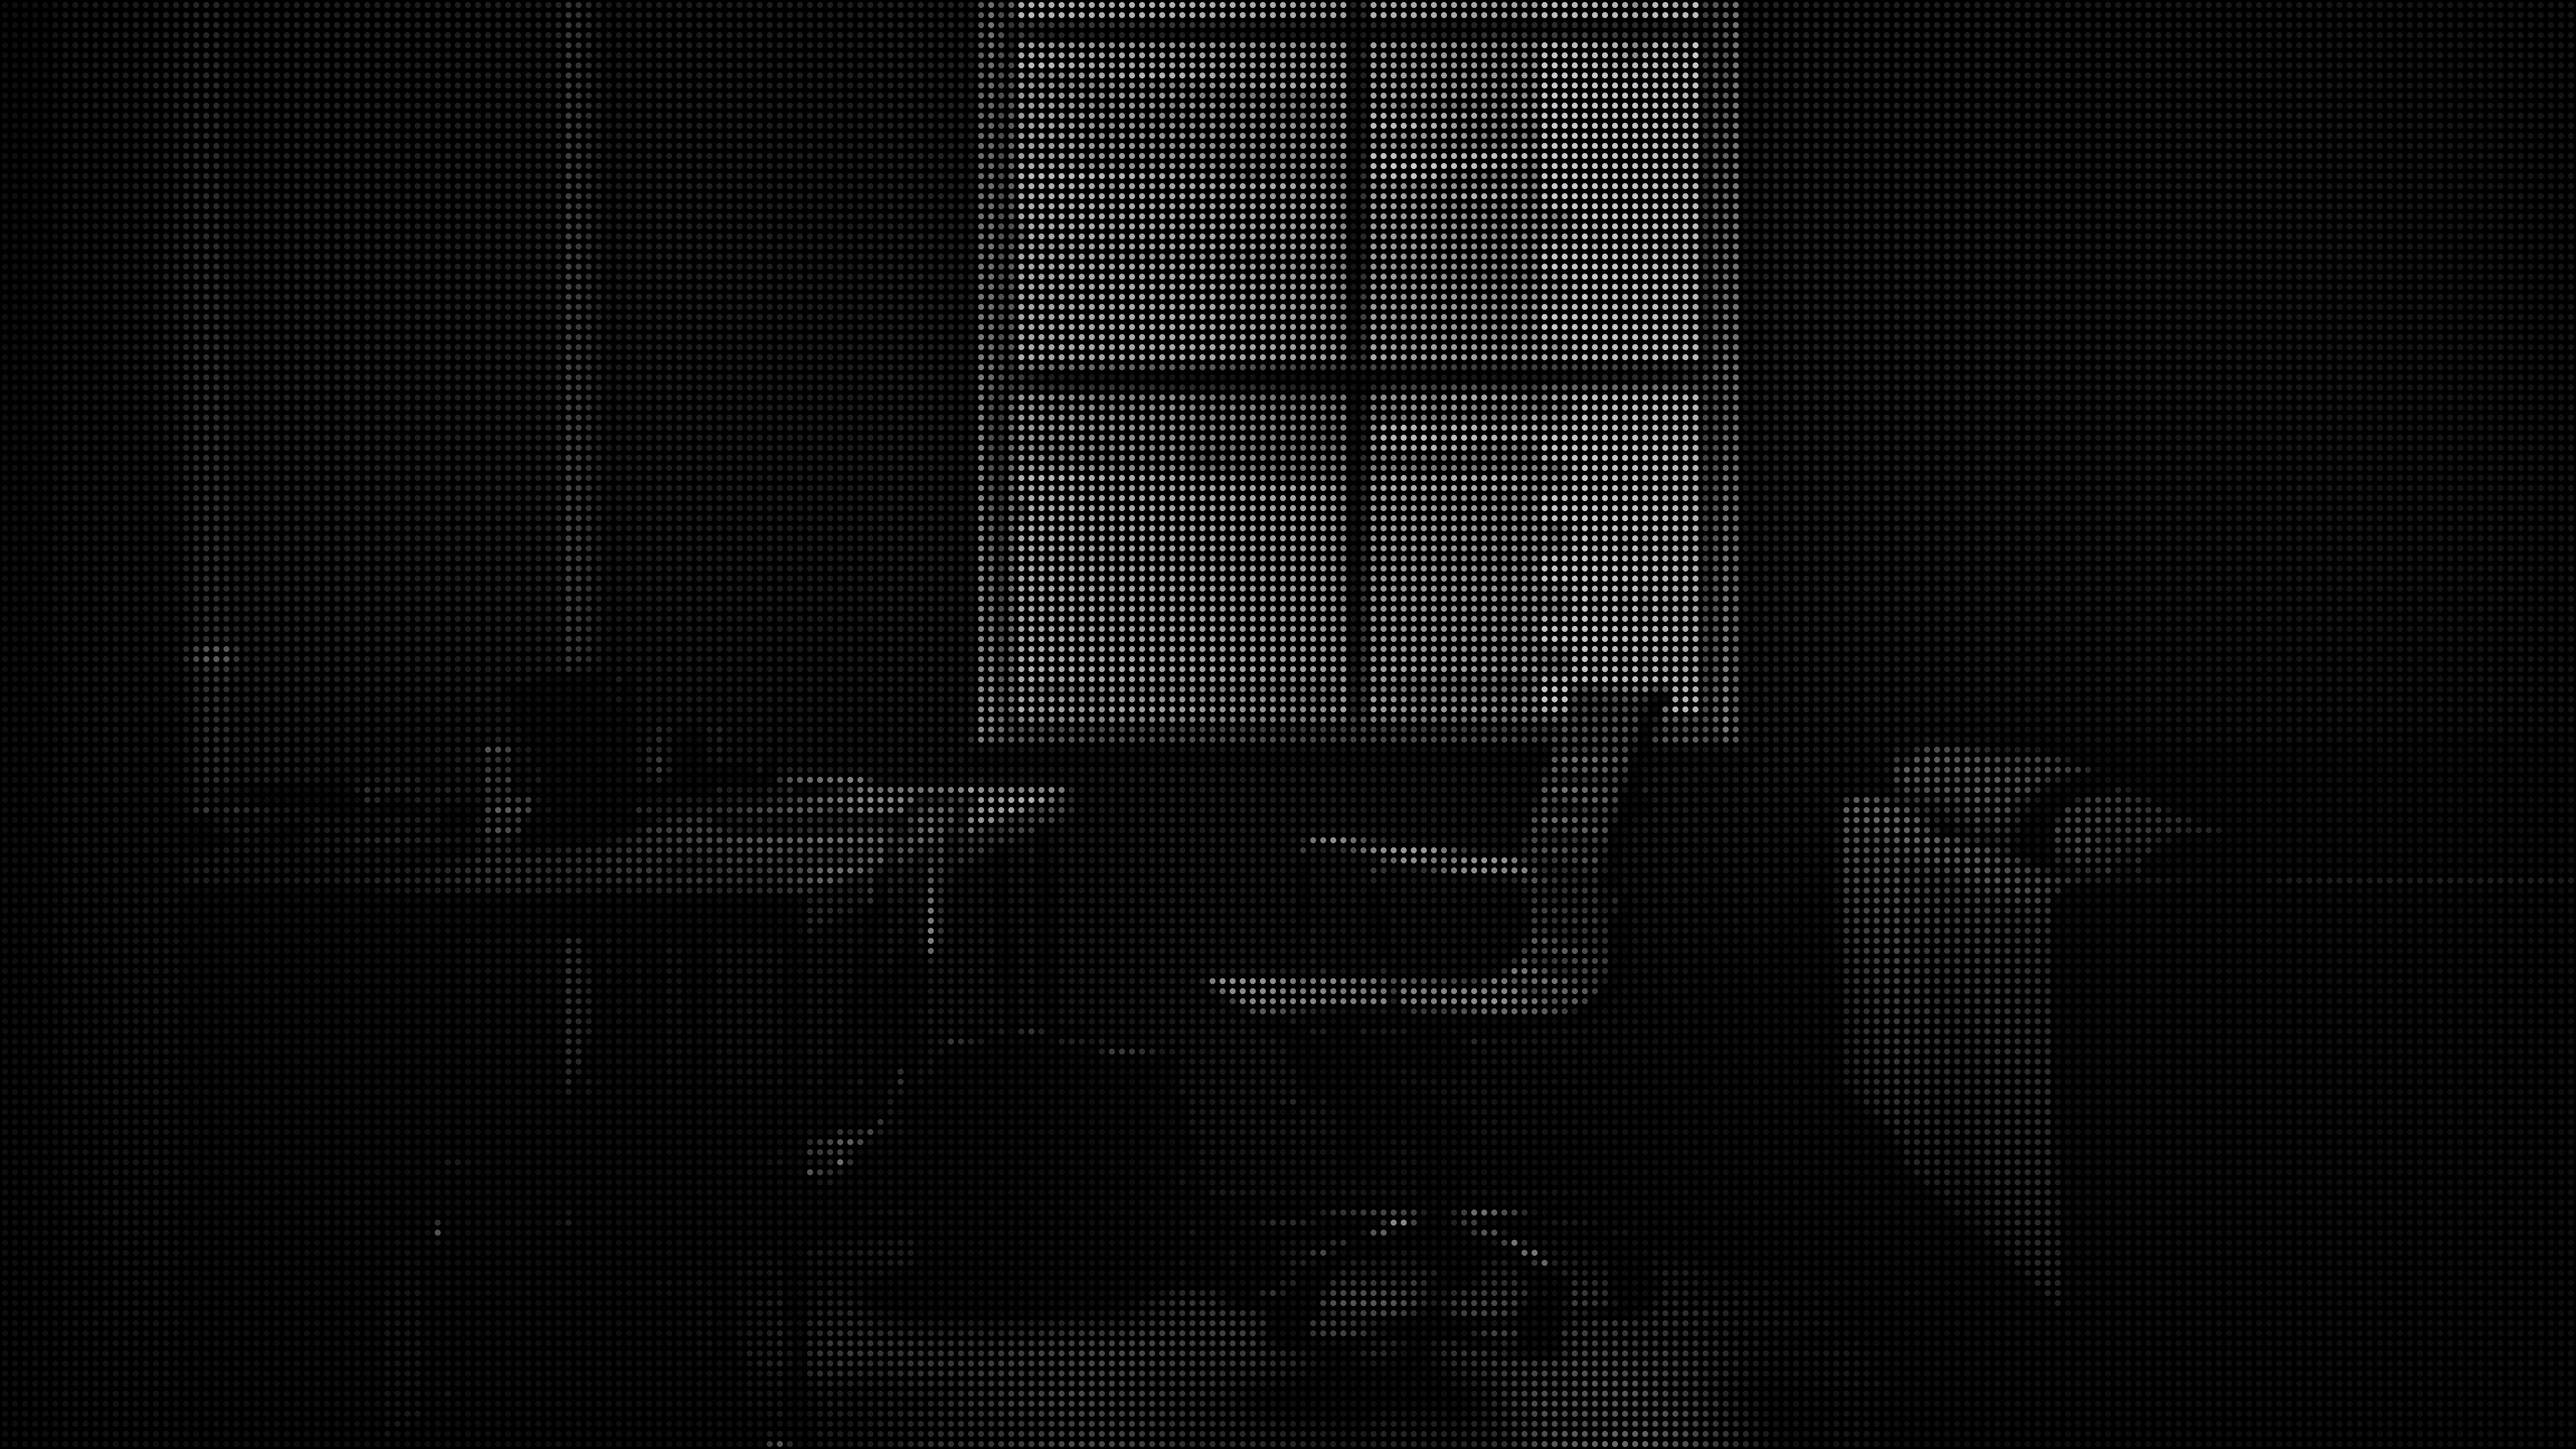
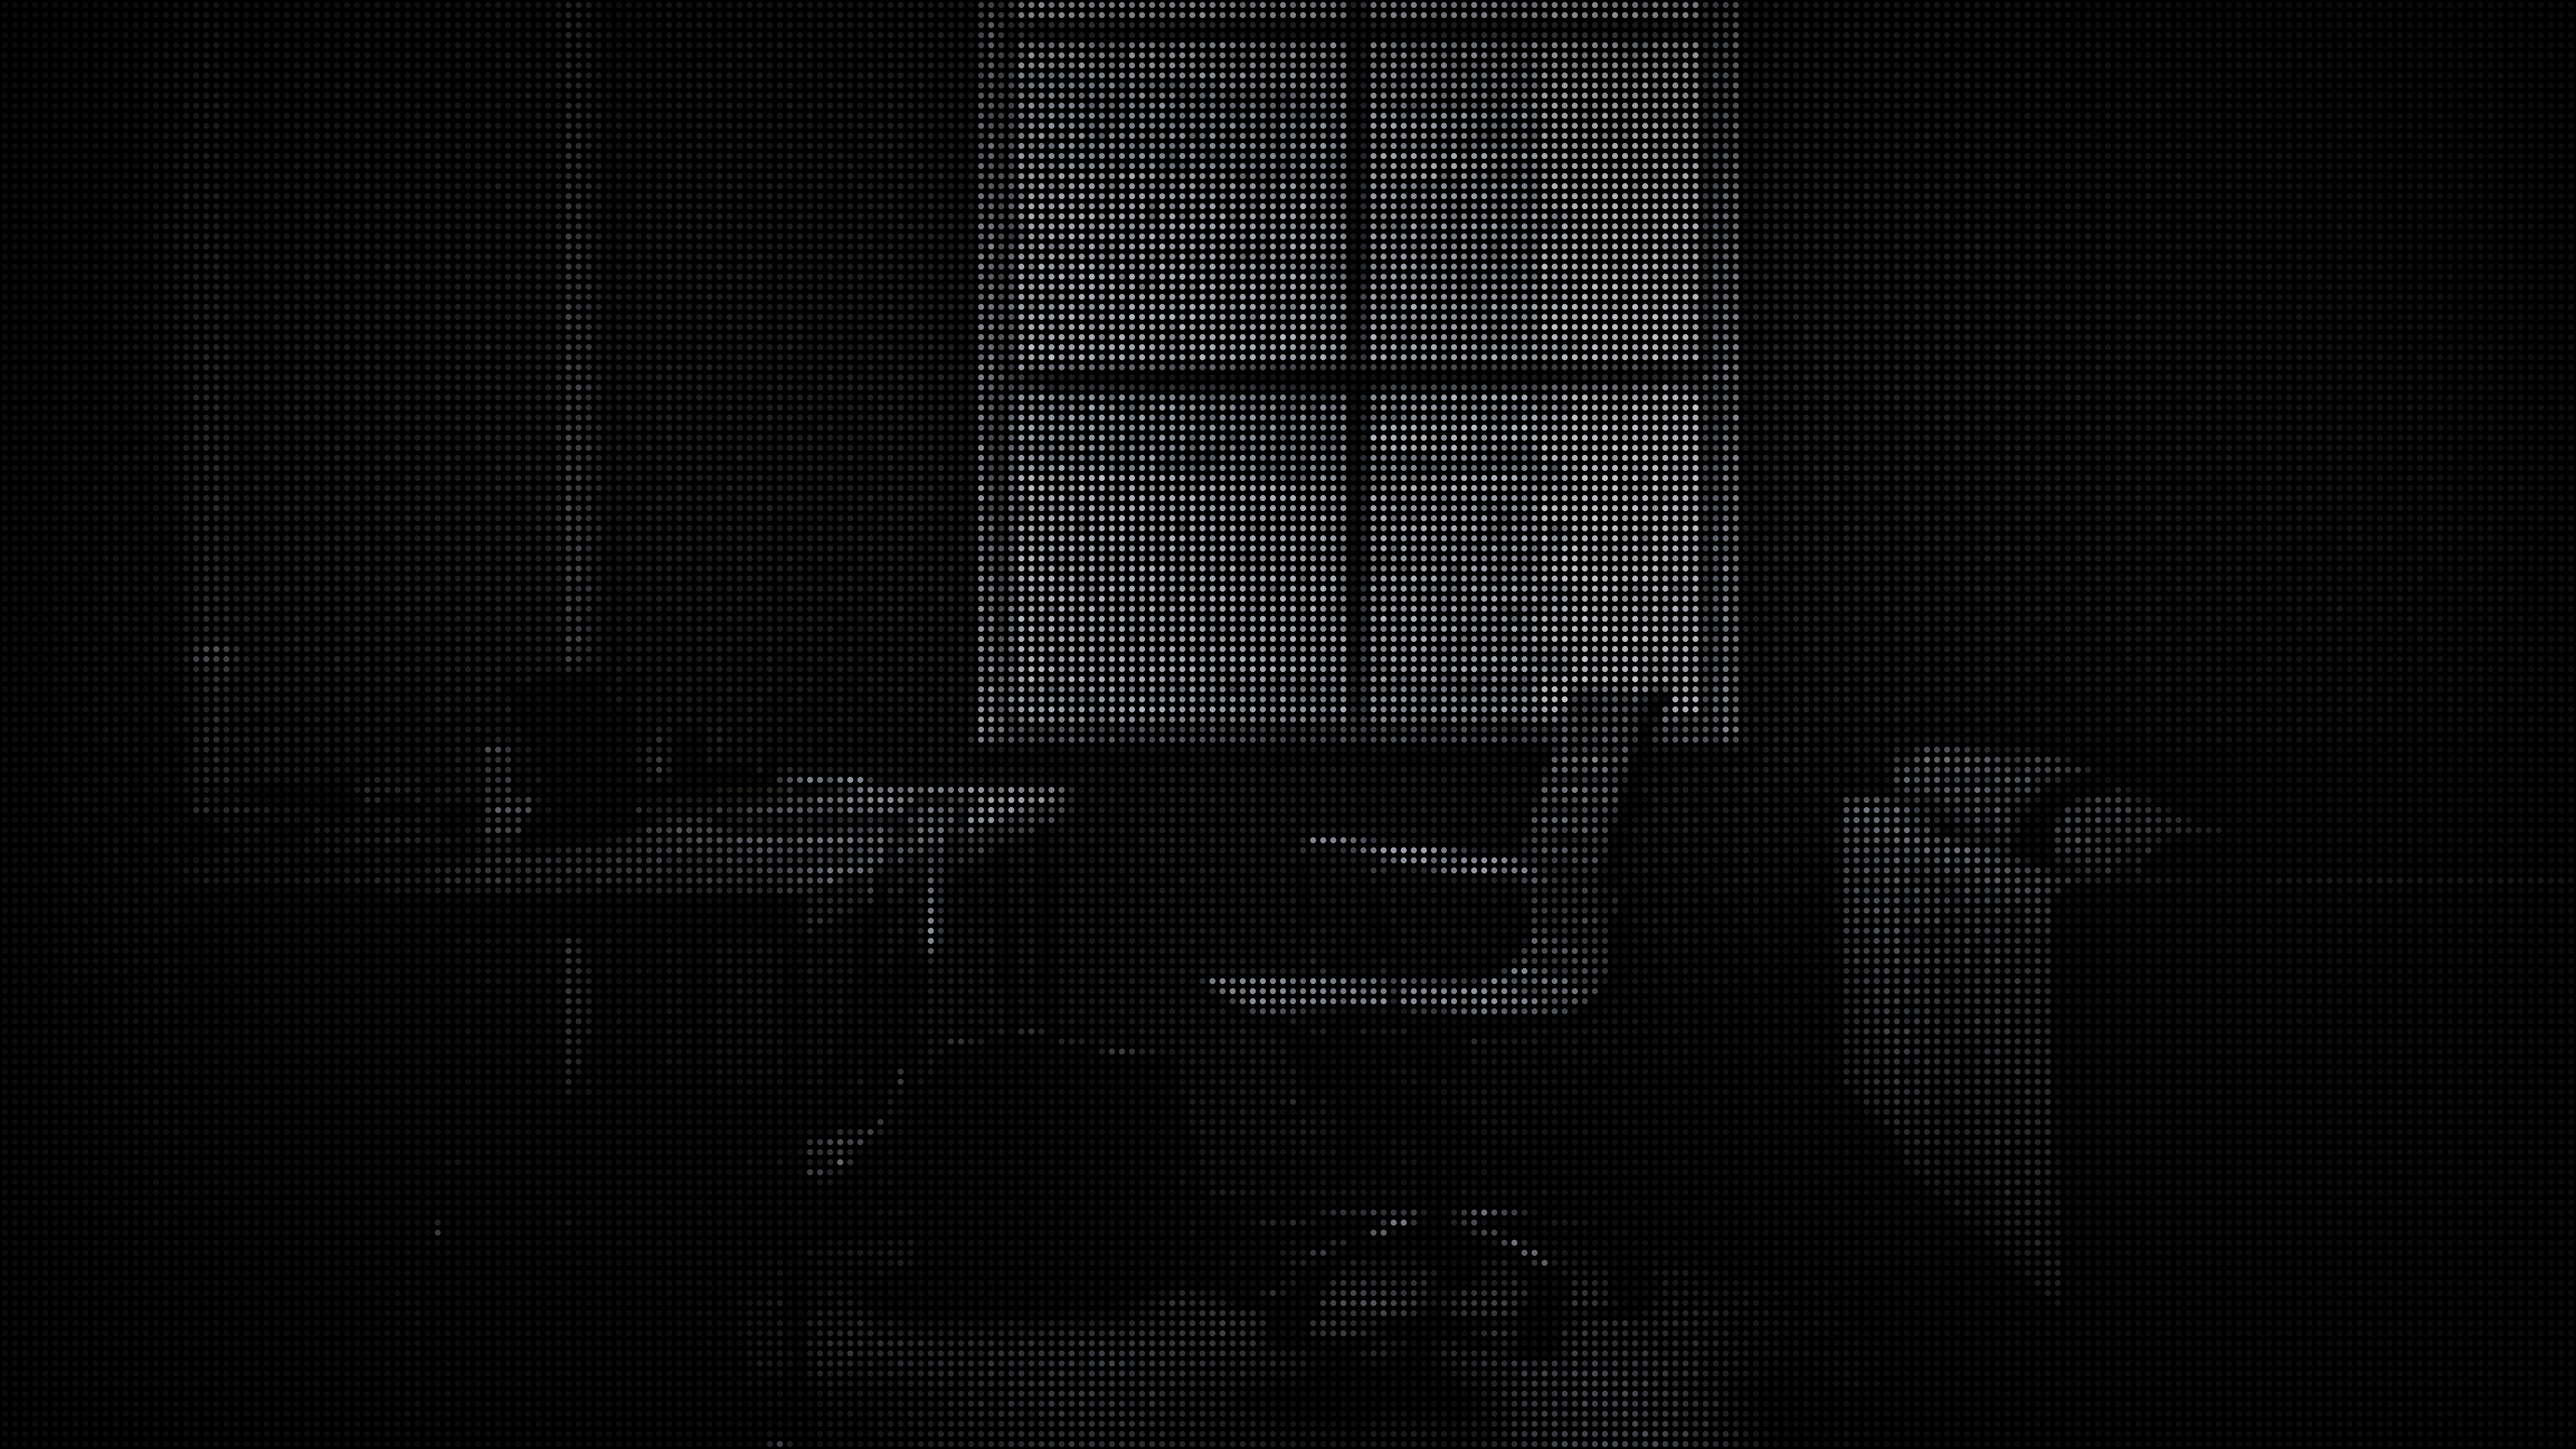
feat(dots): vignetted, capped, muted-colour wallpaper bakes

Changed region(s): [[0.375, 0.0, 0.6562, 0.2171], [0.5938, 0.9616, 0.6562, 1.0]]

diff --git a/dot_config/quickshell/executable_dots.py b/dot_config/quickshell/executable_dots.py
@@ -1,8 +1,12 @@
 #!/usr/bin/env python3
 """Bakes wallpapers into a dot matrix: the image is cut into 15 px cells and
 each cell becomes one round dot, its brightness the cell's grey, from true
-black up to Theme.qml's `text`. True black, not the shell's `ground`, because
-the desk's tiles sit on `panel` just above it and must lift off the screen.
+black up to CAP of Theme.qml's `text`, so the wallpaper never outshines the
+text over it. Each dot keeps SAT of the cell's own colour, so a grey photo
+bakes grey; the cap holds for the grey, while a saturated dot's strongest
+channel can sit a little above it (cyan reaches 209 where white stops at 199). The dots dim towards the corners and carry a little grain. True
+black, not the shell's `ground`, because the desk's tiles sit on `panel` just
+above it and must lift off the screen.
 
     ~/.local/share/chezmoi/dot_config/quickshell/executable_dots.py [--out DIR] IMAGE...
 
@@ -28,8 +32,21 @@ from PIL import Image, ImageOps
 W, H, CELL = 3840, 2160, 15
 RADIUS = 0.3 * CELL  # glyph's dot: 0.3 of the pitch
 # The darkest dot, as a share of the way from black to text. Keeps black areas
-# a faint, even grid instead of a hole; anything brighter is left alone.
+# a faint grid instead of a hole (dimmed towards the corners with the rest);
+# anything brighter is left alone.
 FLOOR = 0.06
+# Each value below was picked by eye from rendered previews; dots.test.py pins
+# them with literals, so a change here wants the same change there.
+# The corners fall to VIGNETTE of the centre, starting INNER of the way out
+# along the half-diagonal; the floor falls half as far, so the grid never goes.
+VIGNETTE, INNER = 0.5, 0.35
+# Brightness above KNEE eases into CAP at white, so the brightest dot sits
+# below the text read over it.
+KNEE, CAP = 0.55, 0.85
+SAT = 0.35  # how much of the photo's own colour a dot keeps
+# Each dot's brightness varies by this much (one sigma), from a fixed seed so a
+# rebake comes out the same.
+GRAIN = 0.10
 
 
 def tone(x, c=2.0, p=0.45):
@@ -38,15 +55,42 @@ def tone(x, c=2.0, p=0.45):
     return x**c * (1 + p**c) / (x**c + p**c)
 
 
+def ease(x):
+    """x below KNEE; above it a curve with slope 1 at KNEE that reaches CAP at 1."""
+    a = (1 - KNEE) / (CAP - KNEE)
+    u = (x - KNEE) / (1 - KNEE)
+    return np.where(x > KNEE, KNEE + (CAP - KNEE) * a * u / (1 + (a - 1) * u), x)
+
+
+def vignette(k):
+    """Per cell: 1 inside INNER, smoothstepping down to 1 - k at the corners."""
+    ys, xs = np.mgrid[0 : H // CELL, 0 : W // CELL] + 0.5
+    r = np.hypot(xs / (W / CELL / 2) - 1, ys / (H / CELL / 2) - 1) / np.sqrt(2)
+    t = np.clip((r - INNER) / (1 - INNER), 0, 1)
+    return 1 - k * t * t * (3 - 2 * t)
+
+
 def dots(im, hi):
-    grey = np.asarray(ImageOps.fit(im.convert("L"), (W, H), Image.LANCZOS), float) / 255
-    lum = np.maximum(tone(grey.reshape(H // CELL, CELL, W // CELL, CELL).mean(axis=(1, 3))), FLOOR)
+    rgb = np.asarray(ImageOps.fit(im.convert("RGB"), (W, H), Image.LANCZOS), float) / 255
+    cell = rgb.reshape(H // CELL, CELL, W // CELL, CELL, 3).mean(axis=(1, 3))
+    grey = cell @ np.array([0.299, 0.587, 0.114])
+    noise = np.random.default_rng(7).normal(0, 1, grey.shape)
+    lum = ease(np.clip(tone(grey) * (1 + GRAIN * noise), 0, 1)) * vignette(VIGNETTE)
+    # The cell's hue as a per-channel ratio to its grey, moved SAT of the way
+    # from 1. Black cells get 1: their lit value is 0 anyway, and 0/0's NaN
+    # would win the max below and erase the floor dot.
+    hue = np.divide(cell, grey[..., None], out=np.ones_like(cell), where=grey[..., None] > 0)
+    lit = hi * (1 + SAT * (hue - 1)) * lum[..., None]
+    # The floor stays text's grey, so near-black noise never shows as colour.
+    v = np.maximum(lit, hi * FLOOR * vignette(VIGNETTE / 2)[..., None])
     # One cell's dot coverage, antialiased by distance from the dot's edge;
     # the centre pixel sits exactly on the cell's centre (CELL is odd).
     off = np.arange(CELL) + 0.5 - CELL / 2
     cover = np.clip(RADIUS + 0.5 - np.hypot(off[:, None], off[None, :]), 0, 1)
-    t = np.repeat(np.repeat(lum, CELL, 0), CELL, 1) * np.tile(cover, (H // CELL, W // CELL))
-    return Image.fromarray(np.round(hi * t[..., None]).astype(np.uint8), "RGB")
+    t = np.repeat(np.repeat(v, CELL, 0), CELL, 1) * np.tile(cover, (H // CELL, W // CELL))[..., None]
+    # Strong grain on a bright saturated cell can pass 255, and uint8 would wrap
+    # it to near black.
+    return Image.fromarray(np.round(np.clip(t, 0, 255)).astype(np.uint8), "RGB")
 
 
 def text_grey():

diff --git a/dot_config/quickshell/dots.test.py b/dot_config/quickshell/dots.test.py
@@ -14,24 +14,62 @@ spec = importlib.util.spec_from_file_location("dots", pathlib.Path(__file__).wit
 dots = importlib.util.module_from_spec(spec)
 spec.loader.exec_module(dots)
 
-BLACK = np.array([0, 0, 0])
-# Black, grey byte 115 and white, a third of the width each.
-src = np.zeros((2160, 3840), np.uint8)
-src[:, 1280:2560] = 115
-src[:, 2560:] = 255
-out = np.asarray(dots.dots(Image.fromarray(src, "L"), np.array([0xE6, 0xE7, 0xEA])))
+HI = np.array([0xE6, 0xE7, 0xEA])  # Theme.qml's dark text
 
-assert out.shape == (2160, 3840, 3), out.shape
-c = 7 + 15 * 10  # a cell centre, ten cells in from the top
-black, grey, white = (out[c, 7 + 15 * k] for k in (20, 120, 220))
 
-# Dark areas keep a faint grid: 6% of the way from black to text.
-assert black.tolist() == [14, 14, 14], black
-# Grey goes through grain.py's S-curve: #E6E7EA × S(115/255).
-assert grey.tolist() == [139, 139, 141], grey
-assert white.tolist() == [0xE6, 0xE7, 0xEA], white
+def bake(rgb):
+    """A flat field of one colour, baked."""
+    return np.asarray(dots.dots(Image.new("RGB", (16, 9), rgb), HI))
+
+
+def dot(out, row, col):
+    """The centre pixel of cell (row, col), where the dot is fully lit."""
+    return out[7 + 15 * row, 7 + 15 * col].tolist()
+
+
+# The expected values below are worked by hand from the knobs the user picked,
+# never read from the module: vignette 0.5 from 0.35 of the half-diagonal,
+# highlights eased above 0.55 to 0.85, 35% of the photo's colour, floor 0.06.
+GRAIN = dots.GRAIN
+dots.GRAIN = 0
+CENTRE, CORNER, EDGE = (72, 128), (0, 0), (72, 0)
+
+white = bake((255, 255, 255))
+assert dot(white, *CENTRE) == [196, 196, 199], dot(white, *CENTRE)  # 0.85 × text
+# Corner: smoothstep is 0.9998 there, so 0.85 × 0.5001 × text.
+assert dot(white, *CORNER) == [98, 98, 99], dot(white, *CORNER)
+# Left-edge midpoint, 0.704 of the half-diagonal: 0.85 × 0.7163 × text.
+assert dot(white, *EDGE) == [140, 141, 142], dot(white, *EDGE)
+
+# Byte 90 tones to 0.458, below the knee, so the ease leaves it alone.
+assert dot(bake((90, 90, 90)), *CENTRE) == [105, 106, 107]
+# Byte 160 tones to 0.794; the ease takes it to 0.742 (0.794 uncapped would be [183, 183, 186]).
+assert dot(bake((160, 160, 160)), *CENTRE) == [171, 171, 174]
+
+# Pure red, luma 0.299, tones to 0.368. Its hue ratio keeps 35% of the way
+# from grey: R 1 + 0.35 × (1/0.299 − 1) = 1.821, G and B 0.65.
+assert dot(bake((255, 0, 0)), *CENTRE) == [154, 55, 56], dot(bake((255, 0, 0)), *CENTRE)
+
+# Black keeps a faint grid in text's own grey: 0.06 × text in the centre, and
+# half the vignette (0.75) in the corner.
+black = bake((0, 0, 0))
+assert dot(black, *CENTRE) == [14, 14, 14], dot(black, *CENTRE)
+assert dot(black, *CORNER) == [10, 10, 11], dot(black, *CORNER)
+# A dark red lit below the floor shows the plain grey floor, not a red one.
+assert dot(bake((20, 0, 0)), *CENTRE) == [14, 14, 14], dot(bake((20, 0, 0)), *CENTRE)
+
 # Round, not square: (+4, +4) from a centre is 5.7 px out, past the 4.5 px radius.
-for k in (20, 120, 220):
-    assert out[c + 4, 7 + 15 * k + 4].tolist() == BLACK.tolist(), (k, out[c + 4, 7 + 15 * k + 4])
+assert white[7 + 15 * 72 + 4, 7 + 15 * 128 + 4].tolist() == [0, 0, 0]
+
+# Grain: the same picture always bakes the same, it varies dots by about 10%,
+# and it never lifts a highlight past the 0.85 ease.
+dots.GRAIN = GRAIN
+grey = bake((90, 90, 90))
+assert (grey == bake((90, 90, 90))).all(), "grain differs between runs"
+# The middle of the screen, where the vignette is 1: rows 50-94, cols 90-166.
+mid = grey[7 + 15 * 50 : 7 + 15 * 95 : 15, 7 + 15 * 90 : 7 + 15 * 167 : 15, 1].astype(float)
+spread = mid.std() / mid.mean()
+assert 0.08 <= spread <= 0.12, spread
+assert (bake((255, 255, 255)).max(axis=(0, 1)) <= [196, 196, 199]).all()
 
 print("dots OK")
